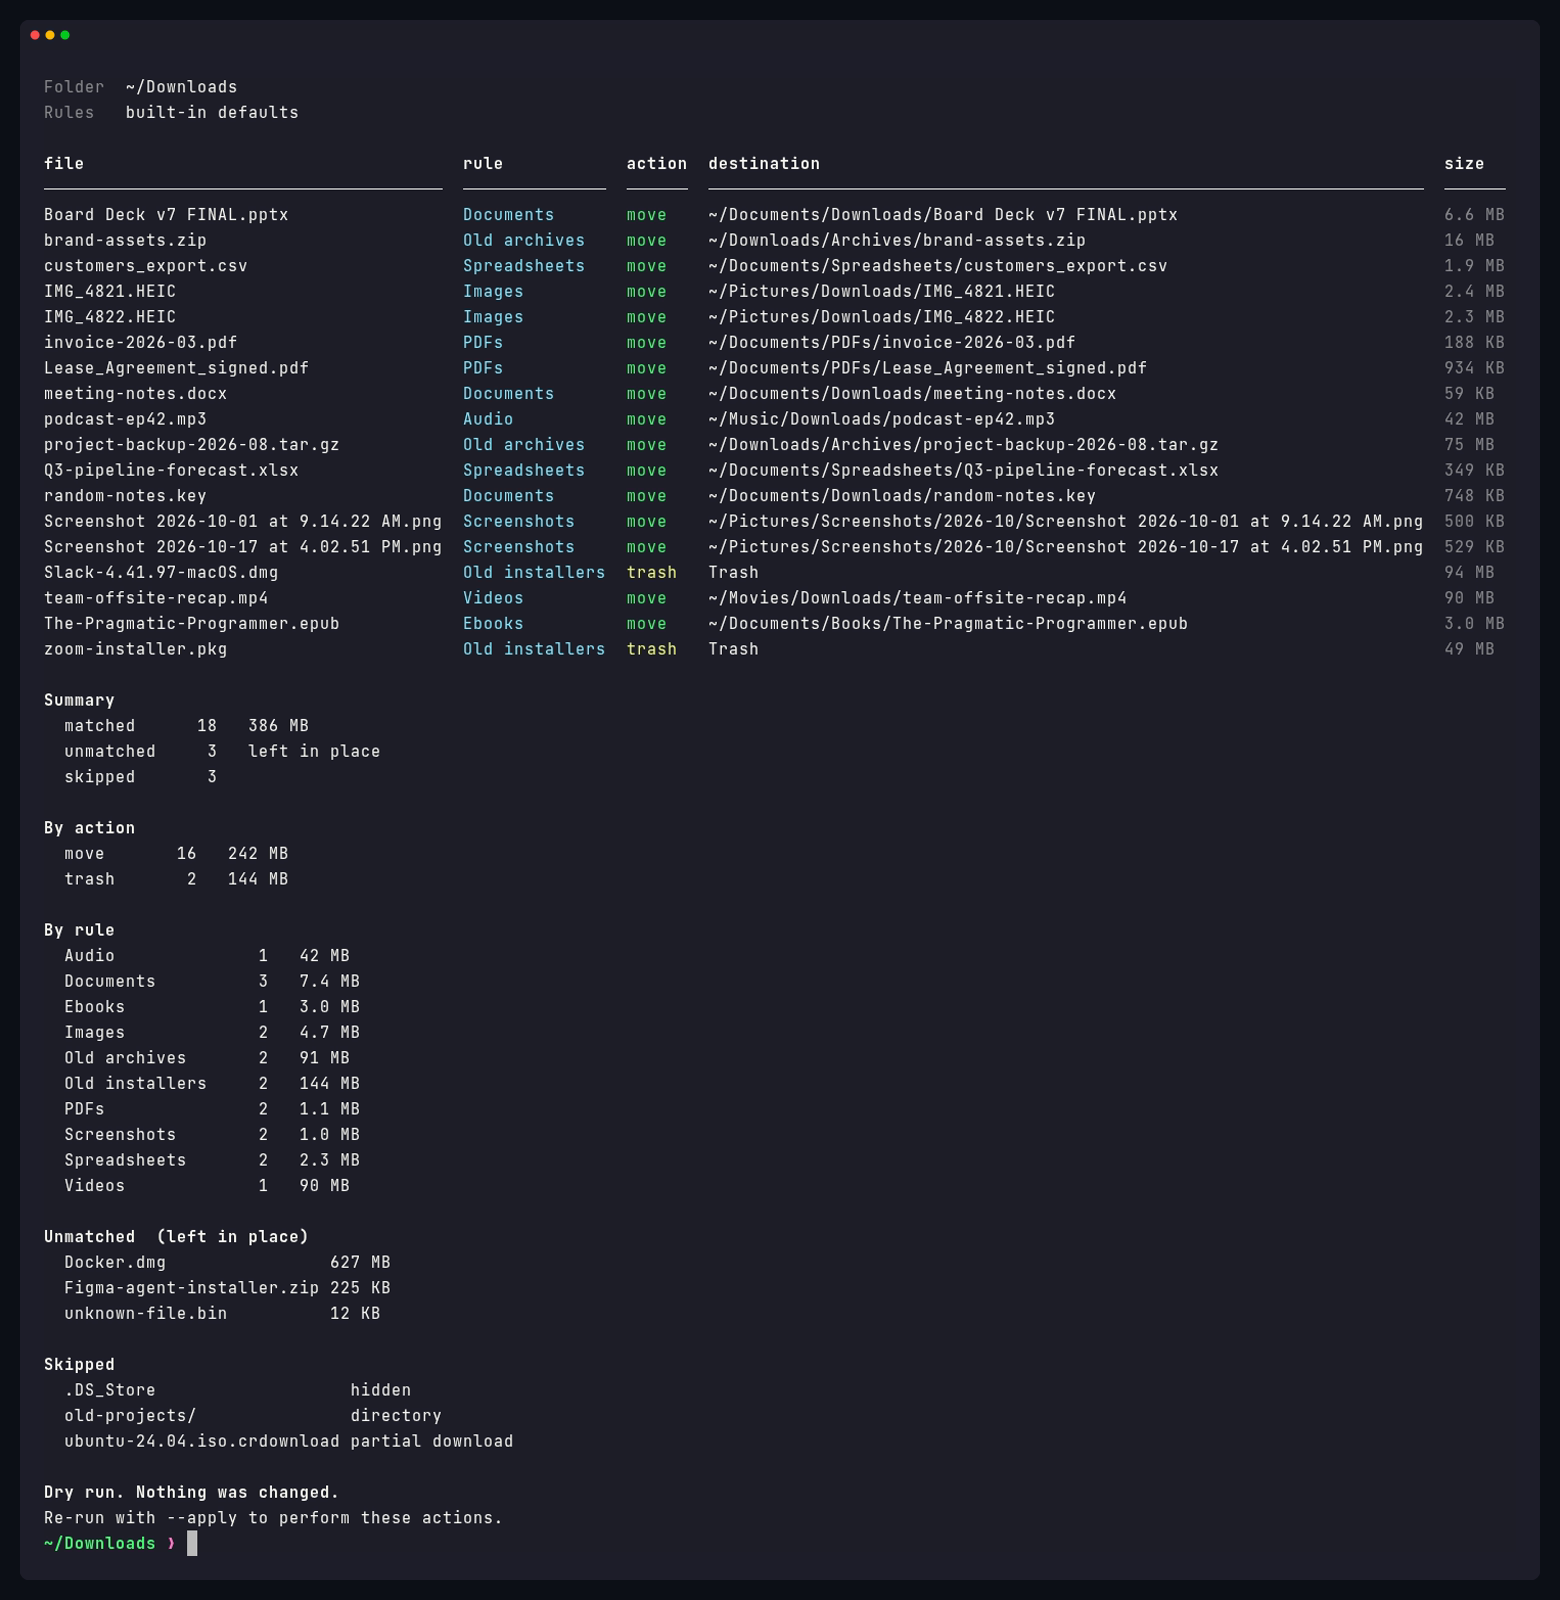
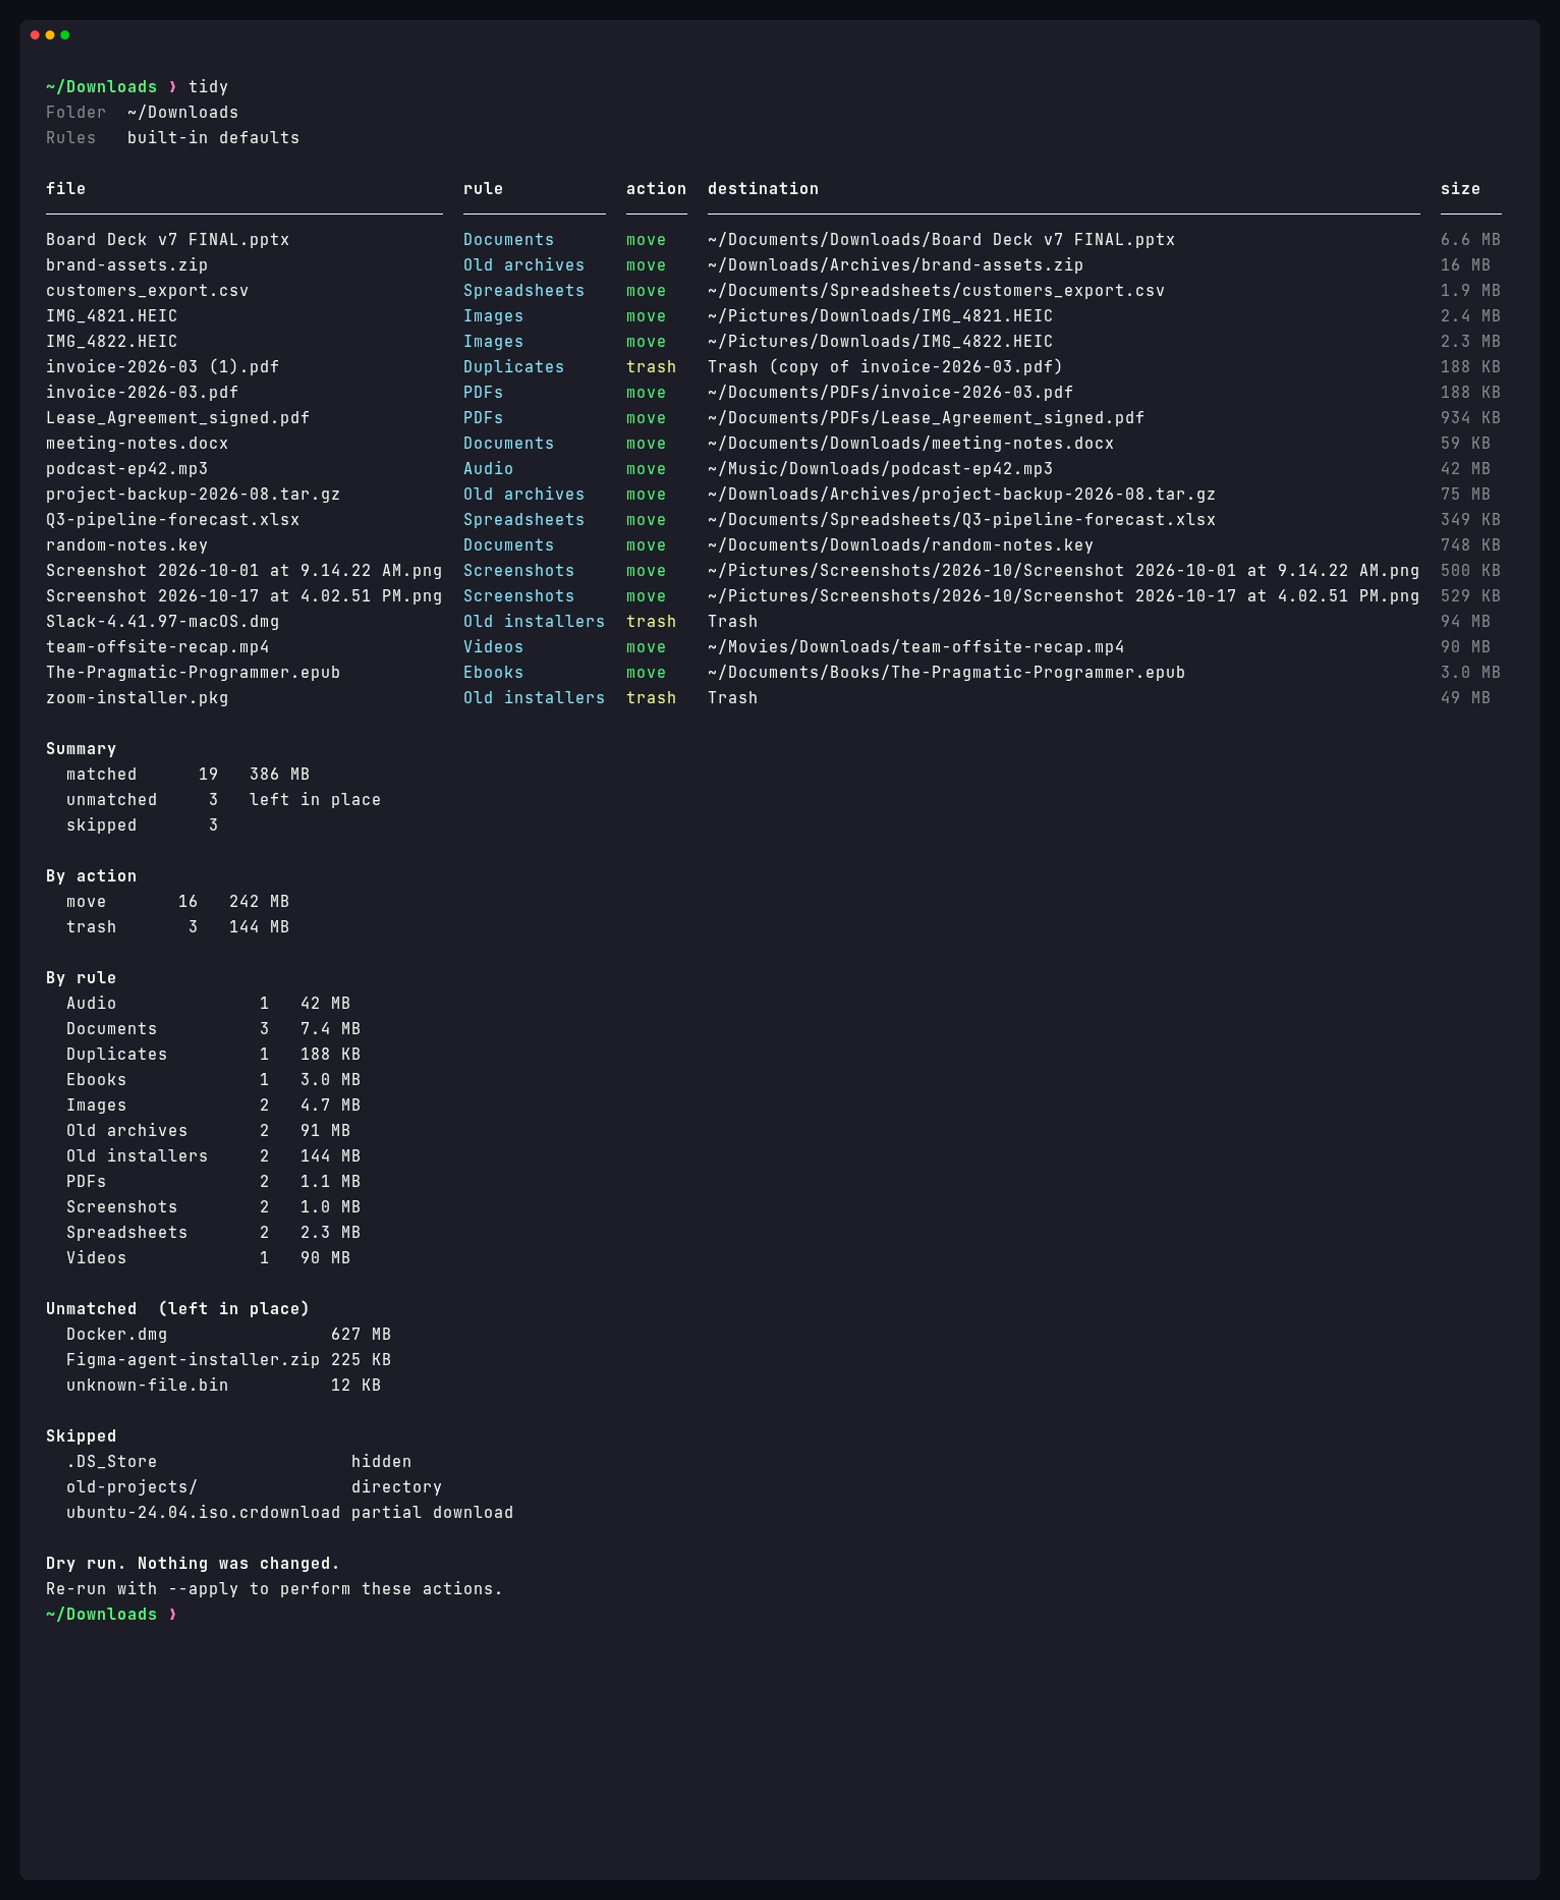
Re-record demo visuals for 0.2 and make Homebrew the primary install path
- docs/demo.gif now shows a duplicate copy, tidy explain, apply, and undo.
- New docs/explain.png; refreshed dry-run.png and undo.png.
- README: step-by-step Homebrew setup, updated table excerpt, explain screenshot.
- Release notes: drop the stale screenshot note, add the demo GIF.

Changed region(s): [[0.0308, 0.0312, 0.9846, 0.9688], [0.2769, 0.9375, 0.3077, 0.9688]]

diff --git a/README.md b/README.md
@@ -15,7 +15,7 @@
 </p>
 
 <p align="center">
-  <img src="docs/demo.gif" alt="tidy demo: preview the plan, apply it, then undo it" width="100%">
+  <img src="docs/demo.gif" alt="tidy demo: preview the plan, explain a duplicate, apply it, then undo it" width="100%">
 </p>
 
 ```bash
@@ -90,14 +90,23 @@ tidy is built so that the worst outcome of a bad rule is a few files in the wron
 
 You don't need to know Rust to use tidy. Pick **Homebrew**, a **release archive**, or **build it yourself**.
 
-### Option A: Homebrew
+### Option A: Homebrew (recommended)
 
-```bash
-brew install jherin89/tap/tidy
-tidy --version
-```
+Works on macOS (Apple Silicon and Intel) and Linux. Homebrew also handles updates, and it doesn't need the quarantine step that a browser download does.
 
-The formula installs the universal macOS binary, or the static musl binary on Linux.
+1. **Open Terminal** (press <kbd>⌘</kbd> <kbd>Space</kbd>, type *Terminal*, press <kbd>Return</kbd>).
+2. **Make sure Homebrew is installed.** Run `brew --version`. If you get `command not found`, install it with the one-line command from [brew.sh](https://brew.sh), then follow the "Next steps" it prints (they add `brew` to your PATH) and open a new Terminal window.
+3. **Install tidy:**
+   ```bash
+   brew install jherin89/tap/tidy
+   ```
+   This adds the [jherin89/tap](https://github.com/Jherin89/homebrew-tap) tap and installs the prebuilt binary: universal on macOS, static musl on Linux. Each download is checked against a pinned SHA-256.
+4. **Verify it works:**
+   ```bash
+   tidy --version     # → tidy 0.2.0
+   tidy               # safe: only shows a preview of ~/Downloads
+   ```
+5. **Later:** `brew upgrade tidy` updates it, and `brew uninstall tidy` removes it. If you set up the background watcher, run `tidy watch --uninstall` first.
 
 ### Option B: download a release archive
 
@@ -178,13 +187,14 @@ An excerpt of the run in the screenshot above:
 file                                     rule            action  destination                                                             size
 ───────────────────────────────────────  ──────────────  ──────  ──────────────────────────────────────────────────────────────────────  ──────
 IMG_4821.HEIC                            Images          move    ~/Pictures/Downloads/IMG_4821.HEIC                                      2.4 MB
+invoice-2026-03 (1).pdf                  Duplicates      trash   Trash (copy of invoice-2026-03.pdf)                                     188 KB
 invoice-2026-03.pdf                      PDFs            move    ~/Documents/PDFs/invoice-2026-03.pdf                                    188 KB
 Q3-pipeline-forecast.xlsx                Spreadsheets    move    ~/Documents/Spreadsheets/Q3-pipeline-forecast.xlsx                      349 KB
 Screenshot 2026-10-01 at 9.14.22 AM.png  Screenshots     move    ~/Pictures/Screenshots/2026-10/Screenshot 2026-10-01 at 9.14.22 AM.png  500 KB
 zoom-installer.pkg                       Old installers  trash   Trash                                                                   49 MB
 
 Summary
-  matched      18   386 MB
+  matched      19   386 MB
   unmatched     3   left in place
   skipped       3
 ...
@@ -206,7 +216,7 @@ Re-run with --apply to perform these actions.
 - **destination**: where it will go. `~` means your home folder. If a file with that name is already there, you'll see a ` (1)` suffix.
 - **Unmatched** files match no rule and stay where they are. In the example, `Docker.dmg` is an installer but it's only 5 days old, so the 30-day "Old installers" rule doesn't apply yet.
 - **Skipped** files are never touched: hidden files, folders, symlinks, and downloads still in progress.
-- **Duplicate copies** (0.2) show a destination like `Trash (copy of invoice-2026-03.pdf)`. The screenshot above is the 0.1 recording. The demo folder script now also drops an exact copy, `invoice-2026-03 (1).pdf`, which the first built-in rule trashes. The older original stays and is filed by the PDF rule. Ask `tidy explain` if you want the condition-by-condition trace.
+- **Duplicate copies** (new in 0.2) show a destination like `Trash (copy of invoice-2026-03.pdf)`. The extra copy goes to the Trash. The original (the oldest copy) stays put and is filed by its normal rule, here **PDFs**.
 
 ### 3. Apply it
 
@@ -215,7 +225,7 @@ tidy --apply
 ```
 
 ```text
-Applied 18 actions (386 MB).
+Applied 19 actions (386 MB).
 Undo log  ~/Library/Application Support/tidy/logs/run-20261021T155316096822Z.json
 Run `tidy undo` to reverse this run.
 ```
@@ -326,7 +336,7 @@ systemctl --user enable --now tidy.service
 
 Adjust `ExecStart` if `tidy` lives somewhere else (`which tidy`).
 
-### 10. Ask why one file matched: `tidy explain`
+### 10. Ask why one file matched: `tidy explain` (new in 0.2)
 
 ```bash
 tidy explain ~/Downloads/invoice-2026-03\ \(1\).pdf
@@ -334,6 +344,8 @@ tidy explain ~/Downloads/Docker.dmg
 tidy explain --json ~/Downloads/report.pdf
 tidy explain --rules ./rules.toml ~/Downloads/report.pdf
 ```
+
+<p align="center"><img src="docs/explain.png" alt="tidy explain output: Old installers wins because the .pkg is 95 days old" width="100%"></p>
 
 Read-only. tidy evaluates the file as if it were tidying that file's parent folder, using the same matcher as the plan. It first says if the file would be skipped (hidden, partial download, directory, symlink, missing). Otherwise it prints every condition of each rule with pass or fail, including the real age (`5d 3h old, needs ≥ 30d`) and, for a duplicate, which file is kept. The first matching rule wins. Later rules are marked "not evaluated". The outcome is the winning rule, action, and destination (with the same collision suffix the plan would choose), or `no rule matches; left in place`. Exit 0 when the file was evaluated, whether or not a rule matched. A missing file or a bad rules file exits nonzero.
 
@@ -560,7 +572,7 @@ cargo test
 - CI runs fmt, clippy, and tests on Ubuntu and macOS 14. The macOS job lints `tidy watch --install --print` with `plutil` and runs a real-Trash test only when `TIDY_CI_REAL_TRASH=1` (set in that job, together with `TIDY_TRASH_METHOD=nsfilemanager`).
 - Pushing a `v*` tag builds a universal macOS binary and static Linux musl binaries (`x86_64` and `aarch64`), attaches the archives and `.sha256` files, and uses `docs/release-notes/<tag>.md` as the release body when that file exists.
 - To refresh the Homebrew formula in a local tap clone: `scripts/bump-homebrew.sh /path/to/homebrew-tap` (downloads checksums with your `gh` login; add `--commit` to commit, and `--push` to push). `--dry-run` or `--sha-from-dir` renders the formula without a release.
-- To re-record the demo: `cargo build --release`, then `vhs docs/demo/demo.tape` (needs [vhs](https://github.com/charmbracelet/vhs)). The demo folder is only created under `/tmp`.
+- To re-record the demo: `cargo build --release`, then `vhs docs/demo/demo.tape` (also `dry-run.tape`, `explain.tape`, `undo.tape`) (needs [vhs](https://github.com/charmbracelet/vhs)). The demo folder is only created under `/tmp`.
 
 ## License
 

diff --git a/docs/release-notes/v0.2.0.md b/docs/release-notes/v0.2.0.md
@@ -1,3 +1,5 @@
+![tidy 0.2 demo](https://raw.githubusercontent.com/Jherin89/tidy/v0.2.0/docs/demo.gif)
+
 **tidy 0.2** explains a single file, sends extra copies to the Trash, and can install a macOS launchd agent. Release binaries now cover Apple Silicon, Intel Macs, and Linux.
 
 ### Highlights
@@ -37,4 +39,4 @@ Or build from source: `cargo install --git https://github.com/Jherin89/tidy --ta
 - The binary is not notarized.
 - On macOS, `tidy undo` still cannot pull files back out of the Trash. It names each file and its original location so you can use Finder's **Put Back**. Moved files come back on their own. The default Trash method is Finder so Put Back is offered. `TIDY_TRASH_METHOD=nsfilemanager` is the headless alternative and may not offer Put Back.
 - `tidy watch --install` / `--status` and the real-Trash path were checked with a fake `launchctl` and with the macOS CI job. Confirm both once on a real Mac before relying on the agent.
-- Screenshots in the README are still the 0.1 recording. The demo folder script now includes an exact duplicate copy.
+- The real-Trash test runs in CI with `TIDY_TRASH_METHOD=nsfilemanager`, so the default Finder method was not exercised there.
